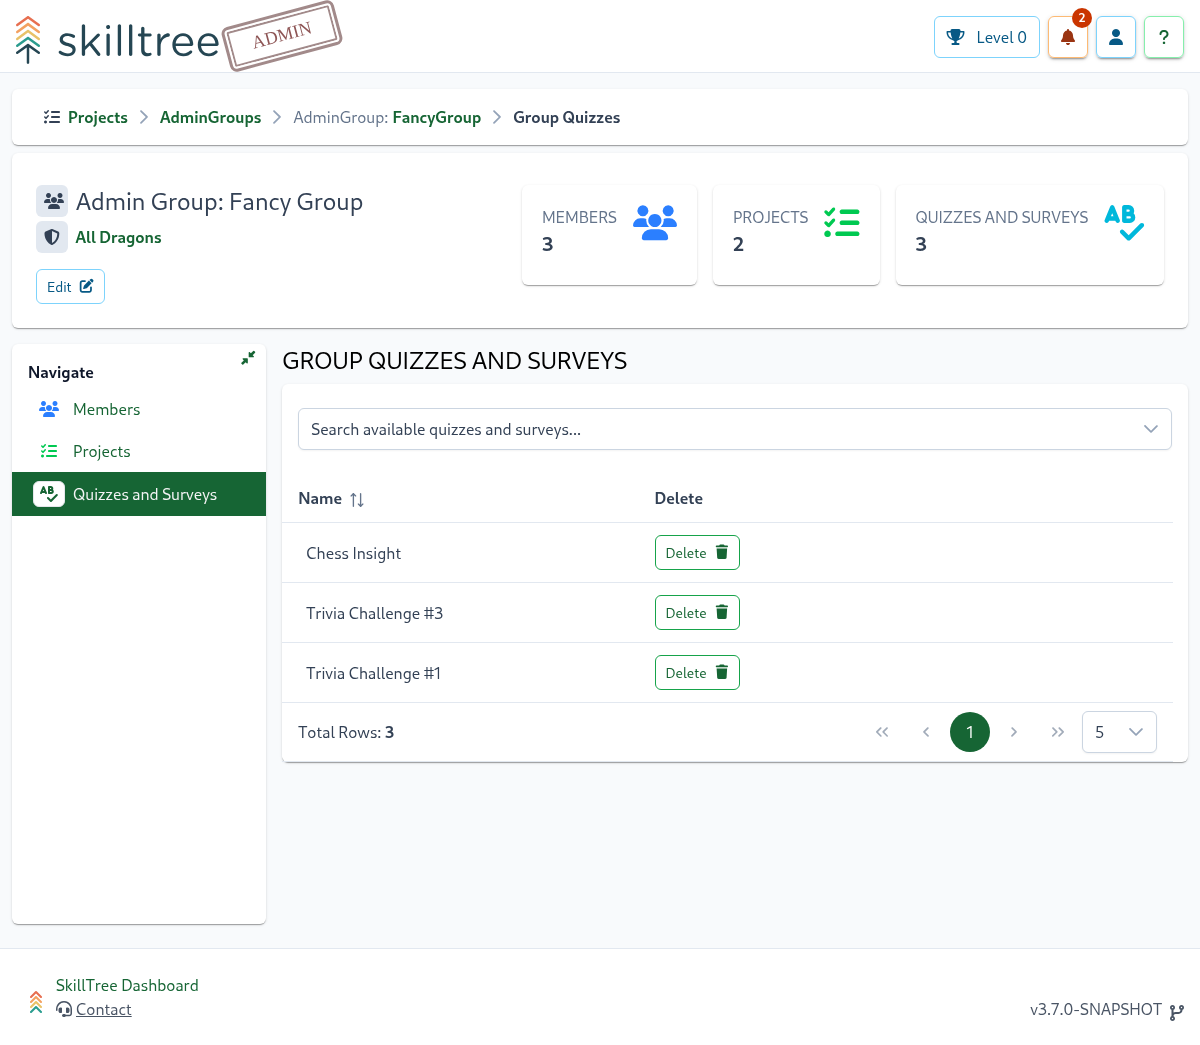
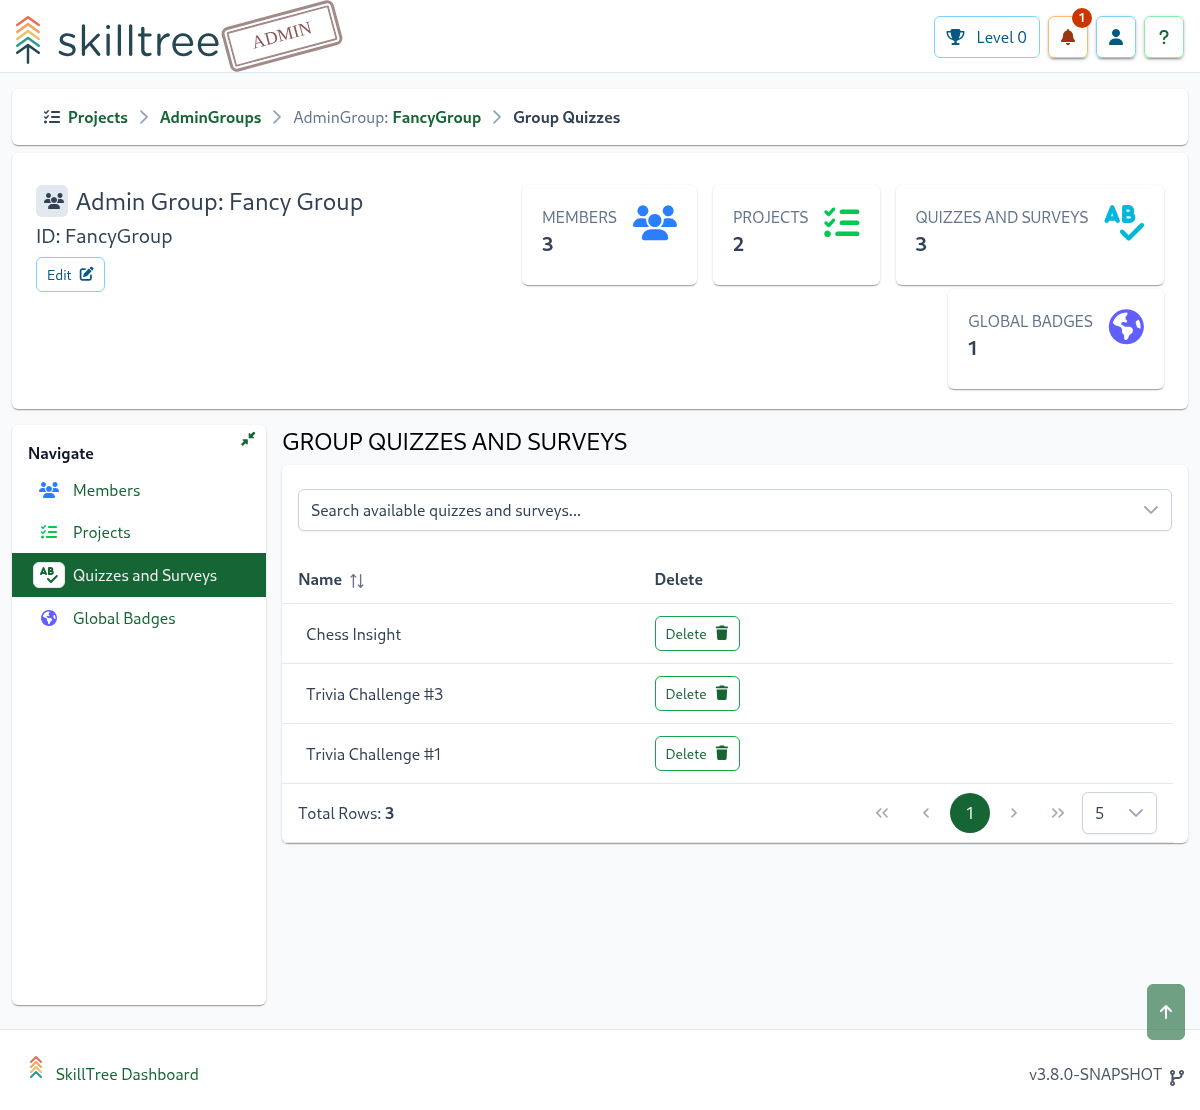
#322 - documented new project admin scoped global badges

diff --git a/cypress/e2e/admin.cy.js b/cypress/e2e/admin.cy.js
@@ -665,6 +665,30 @@ context('Admin: Generate Screenshots', () => {
         cy.get('[data-cy="adminGroupQuizzesTable"] [data-cy="skillsBTableTotalRows"]').should('have.text', '3')
         cy.snap('page-admin-groups-quizzes')
 
+        cy.visit('/administrator/adminGroups/FancyGroup/group-global-badges')
+        cy.get('[data-cy="adminGroupGlobalBadgesTable"] [data-cy="skillsBTableTotalRows"]').should('have.text', '1')
+        cy.snap('page-admin-groups-global-badges')
+    })
+
+    it.only('page - global badges', () => {
+        cy.visit('/administrator/globalBadges/MoviesandShowsExpertBadge')
+        cy.get('[data-cy="noContent"]').contains('No Skills Added Yet');
+        cy.selectSkill('[data-cy="skillsSelector"]', 'FindingNemo', 'nemo', 'movies');
+        cy.selectSkill('[data-cy="skillsSelector"]', 'UnbreakableKimmySchmidt', 'kimmy', 'shows');
+        cy.snap('page-global-badge-skills')
+
+        cy.visit('/administrator/globalBadges/MoviesandShowsExpertBadge/levels')
+        cy.get('[data-cy="simpleLevelsTable"] [data-cy="skillsBTableTotalRows"]').should('have.text', '2')
+        cy.snap('page-global-badge-levels')
+
+        cy.visit('/administrator/globalBadges/MoviesandShowsExpertBadge/access')
+        cy.get('[data-cy="existingUserInput"]').type('bob1');
+        cy.wait(500);
+        cy.get('#existingUserInput_0').contains('bob1').click();
+        cy.get('[data-cy="addUserBtn"]').click();
+
+        cy.get('[data-cy="userCell_bob1@email.org"]')
+        cy.snap('page-global-badge-access')
     })
 
     it('Notifications', () => {

diff --git a/cypress/support/commands.js b/cypress/support/commands.js
@@ -134,3 +134,12 @@ Cypress.Commands.add('selectItem', (selector, item, openPicker = true, autoCompl
     }
     cy.get('[data-pc-section="overlay"] [data-pc-section="optionlabel"]').contains(item).click();
 })
+
+Cypress.Commands.add('selectSkill', (selector, skillId, searchString = '', projId='proj1') => {
+    cy.get(selector).blur({force: true})
+    cy.get(selector).click()
+    if (searchString) {
+        cy.get(selector).type(`{selectall}${searchString}`)
+    }
+    cy.get(`[data-cy="skillsSelectionItem-${projId}-${skillId}"]`).click()
+})

diff --git a/docs/.vuepress/config.js b/docs/.vuepress/config.js
@@ -130,6 +130,7 @@ sidebar = sidebar.concat([{
             '/dashboard/user-guide/quizzes-and-surveys',
             '/dashboard/user-guide/admin-groups',
             '/dashboard/user-guide/badges',
+            '/dashboard/user-guide/global-badges',
             '/dashboard/user-guide/learning-path',
             '/dashboard/user-guide/progress-and-ranking',
             '/dashboard/user-guide/icons',

diff --git a/docs/dashboard/user-guide/badges.md b/docs/dashboard/user-guide/badges.md
@@ -59,31 +59,4 @@ Multiple skills can be easily added to an existing badge via the following steps
 - Navigate to the `Subject` administrative page page `Project -> Subject`
 - Use checkmark to select multiple skills OR click `Select All` to select all the skills defined under this subject.
 - Use the `Action` button on the top-right above the skills' table to select `Add To Badge` action 
-- Follow `Add To Badge` workflow to choose which badge selected skills are added to 
-
-<conditional visibilityFlag="showDocsForRootRole">
-
-## Global Badges
-
-Global Badges are a special kind of badge that is made up of a collection of skills and/or levels that span across project boundaries.  
-
-Global Badges consist of:
-- *Project's Levels*: Project levels that a user must achieve in order to earn the badge
-- *List of Skills*: Skills from any project
- 
-When all of the configured skills and levels are accomplished, that badge is achieved.
-Global Badges are specifically used to reward users for achieving skills that involve multiple projects, 
-and can only be created by Dashboard users that have the [Supervisor](/dashboard/user-guide/users.html#user-roles) role.  
-
-Creating Global Badges is simple (<requires-role role="Supervisor" />):
-
-1. Navigate to ``Home -> Badges`` and click ``Badge +``
-    - You can (and should) assign an [Icon](/dashboard/user-guide/icons.html) to your badge.
-1. Once a badge is created you can assign existing skills and/or project levels to that badge.  
-    - To assign skills,  ``Home -> Badge -> Manage -> Skills``
-    - To assign project levels,  ``Home -> Badge -> Manage -> Levels``
-    - When initially created, a badge is in a Disabled state. This is to allow dependencies to be fully added to the badge before it can be achieved by users.
-1. After assigning skills and or project levels, locate the badge in the ``Badges`` view and click the ``Go Live`` link on the bottom right of the Badge overview.
-    - When the badge is published, any users with existing achievements that meet the badge requirements will be awarded the badge at that time.
-
-</conditional>
+- Follow `Add To Badge` workflow to choose which badge selected skills are added to

diff --git a/docs/dashboard/user-guide/global-badges.md b/docs/dashboard/user-guide/global-badges.md
@@ -1,0 +1,50 @@
+# Global Badges
+
+Global Badges recognize and reward users for achieving skills and levels across multiple projects. These badges help track and celebrate comprehensive skill development that spans different project boundaries.
+
+## Overview
+
+Global Badges are awarded when users meet specific criteria that can include:
+- Skills from multiple projects
+- Project level achievements
+- Any combination of the above
+
+## Components of Global Badges
+
+### Project Levels
+Earn badges by reaching specific levels across different projects. These levels demonstrate consistent growth and achievement within individual projects.
+
+![Global Badge Levels](../../screenshots/admin/page-global-badge-levels.png)
+
+### Skills
+Showcase expertise by completing specific skills from any project you have access to. These can be combined to create comprehensive achievement paths.
+
+![Global Badge Skills](../../screenshots/admin/page-global-badge-skills.png)
+
+## Access
+
+The Access page supports adding or removing Global Badges Administrators. To add and remove Administrators
+please navigate to ``Home -> Global Badges -> Manage -> Access`` page.
+
+![Global BadgeAccess](../../screenshots/admin/page-global-badge-access.png)
+
+## Creating Global Badges
+
+### Step 1: Create a New Badge
+1. Navigate to `Home -> Global Badges`
+2. Click the `Badge +` button
+3. **Recommended**: Add a descriptive [Icon](/dashboard/user-guide/icons.html) for better visual recognition
+
+### Step 2: Configure Badge Requirements
+After creation, set up the badge criteria:
+- **Adding Skills**: `Home -> Global Badges -> Manage -> Skills`
+- **Setting Level Requirements**: `Home -> Global Badges -> Manage -> Levels`
+
+> **Note**: New badges start in a Disabled state, allowing you to fully configure all requirements before they become available to users.
+
+### Step 3: Publish the Badge
+1. Go to the `Global Badges` view
+2. Locate your badge
+3. Click the `Go Live` button in the bottom-right corner of the Badge overview
+
+> **Important**: When published, the system automatically awards the badge to all users who already meet the requirements.

diff --git a/docs/dashboard/user-guide/admin-groups.md b/docs/dashboard/user-guide/admin-groups.md
@@ -1,8 +1,8 @@
 # Admin Groups
 
-Admin Groups streamline the ability to manage a list of administrators for one or more projects and/or quizzes.
-Once an Admin Group is created you can easily add and remove members to and from the group. A group can then be assigned to one or more projects and/or quizzes 
-which then allows the members of the group to have administrative privileges to the assigned projects and/or quizzes. 
+Admin Groups streamline the ability to manage a list of administrators for one or more projects, quizzes and global badges
+Once an Admin Group is created you can easily add and remove members to and from the group. A group can then be assigned to one or more projects, quizzes, or global badges 
+which then allows the members of the group to have administrative privileges to the assigned projects, quizzes and global badges. 
  
 To create an admin group please navigate to the ``Admin Groups`` page and then click the ``Admin Group +`` button.
 
@@ -15,3 +15,7 @@ To assign a group to a project please navigate to ``Adming Groups -> Projects`` 
 To assign a group to a quiz please navigate to ``Adming Groups -> Quizzes`` then select one of the existing quizzes from the dropdown.
 
 ![page-admin-groups-quizzes.png](../../screenshots/admin/page-admin-groups-quizzes.png)
+
+To assign a group to a global badge please navigate to ``Adming Groups -> Global Badges`` then select one of the existing global badges from the dropdown.
+
+![page-admin-groups-global-badges.png](../../screenshots/admin/page-admin-groups-global-badges.png)
